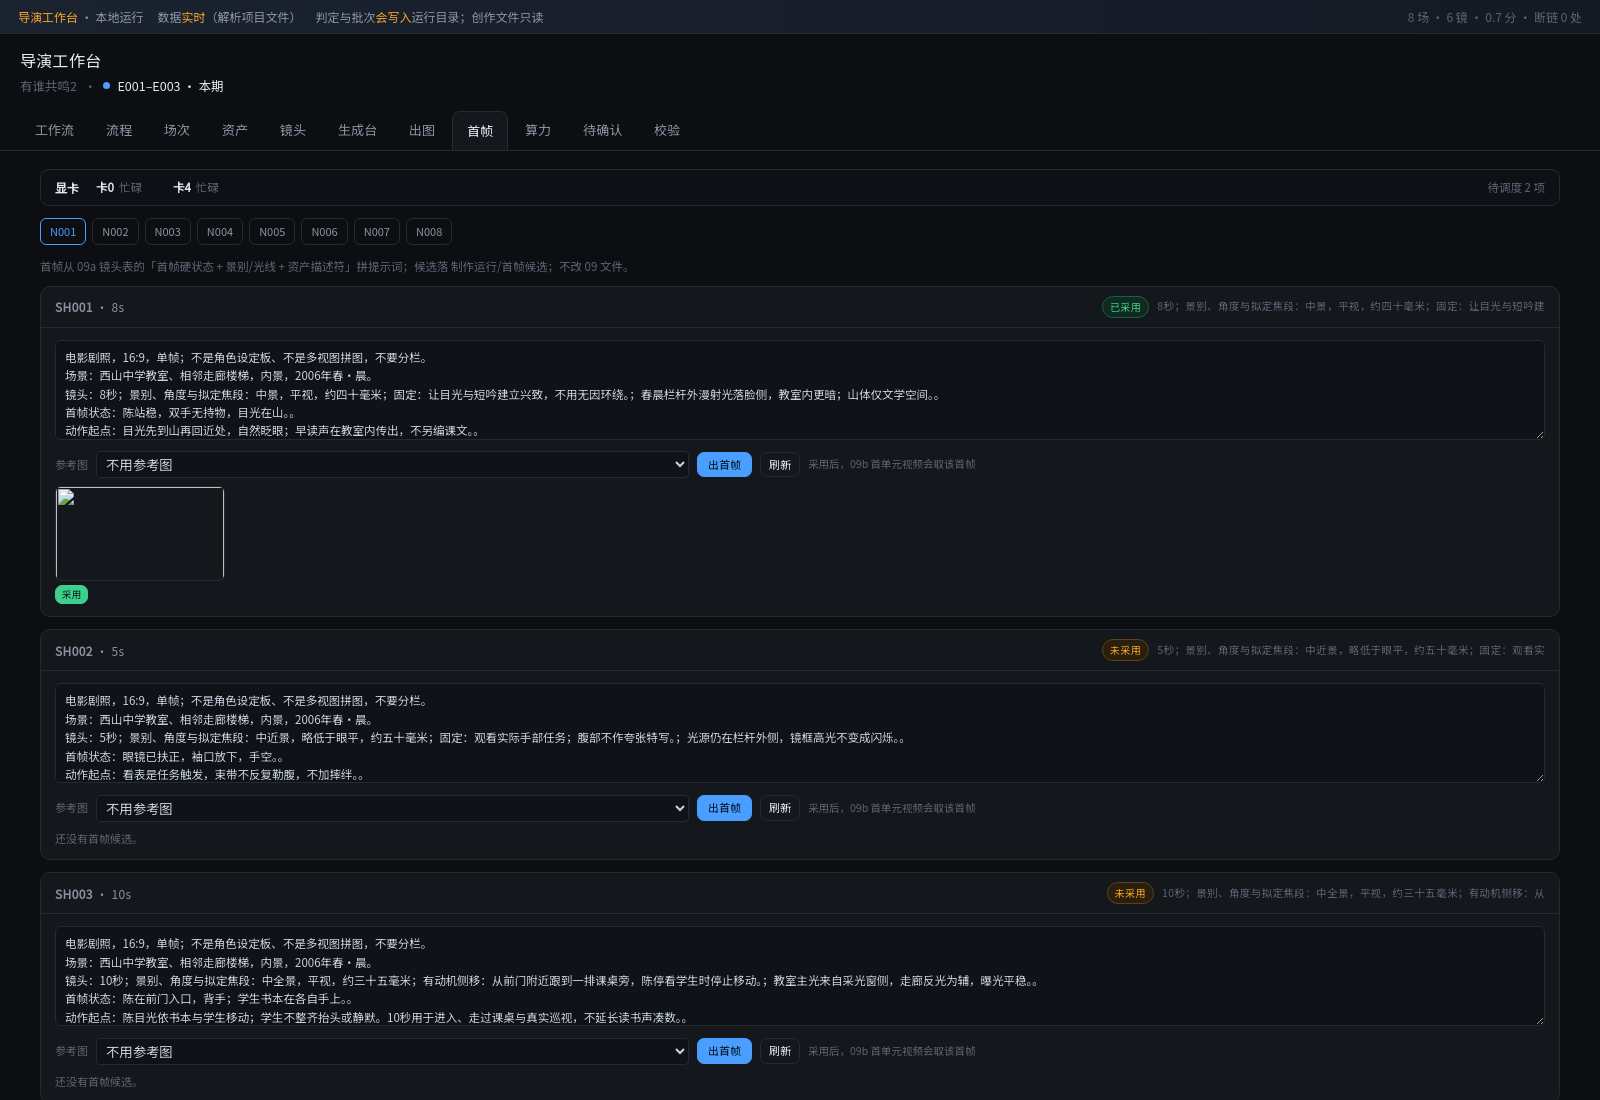
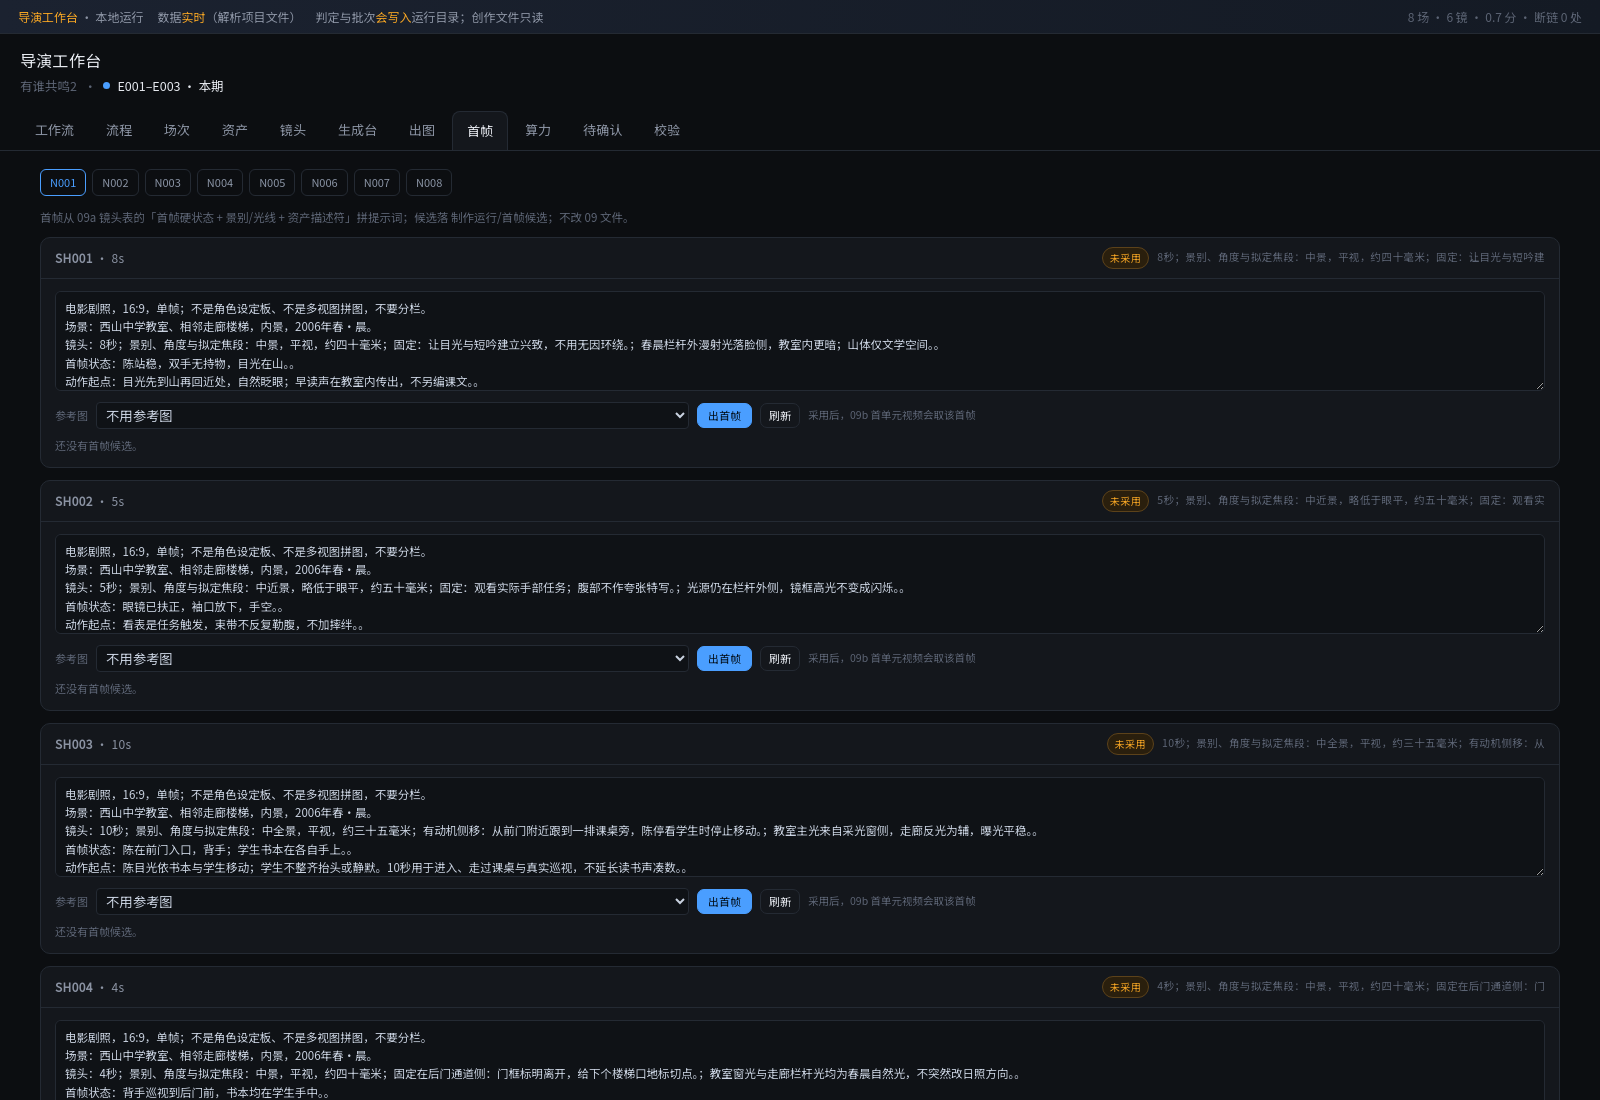
M5: 首帧页截图与 09b firstFrame 回归

diff --git a/app/test_firstframe.py b/app/test_firstframe.py
@@ -2,10 +2,15 @@
 # -*- coding: utf-8 -*-
 """首帧：从镜头表/资产描述符拼提示词；候选采用；09b 取首帧。"""
 import json
+import os
 import tempfile
 from pathlib import Path
+from unittest import mock
+
+os.environ.setdefault("SHOTCALL_VJOBS_FILE", str(Path(tempfile.mkdtemp()) / "vjobs.json"))
 
 import firstframe
+import vjobs
 
 REAL = Path('/users/huxian/short_v/有谁共鸣2')
 PASS, FAIL = [], []
@@ -33,6 +38,18 @@ def main():
     check("采用记录", rec.get("shot") == "SH001" and rec.get("sha256"), rec)
     check("按单元取首帧", firstframe.first_for_unit(p, "N001", "SH001、SH002") == rec['file'],
           firstframe.first_for_unit(p, "N001", "SH001、SH002"))
+
+    # 09b 提交时把已采用首帧写进任务
+    vjobs.JOBS_FILE = p / "vjobs.json"
+    with vjobs._lock:
+        vjobs._jobs.clear(); vjobs._order.clear()
+    unit = {"id": "U001-A", "shots": "SH001", "seconds": 6, "prompt": "p",
+            "refs": [], "source": "x.md"}
+    with mock.patch.object(vjobs.sched, "submit") as sub:
+        out = vjobs.submit(p, "N001", [{"unit": unit, "count": 1}], seed=1, steps=6)
+    j = vjobs._jobs[out["jobs"][0]]
+    check("09b 任务带 firstFrame", j.get("firstFrame") == rec["file"], j.get("firstFrame"))
+    check("视频任务入调度", sub.called)
 
     print(f"\n通过 {len(PASS)} · 失败 {len(FAIL)}")
     return 0 if not FAIL else 1

diff --git a/docs/工作流与提示词-v1.md b/docs/工作流与提示词-v1.md
@@ -8,7 +8,7 @@
 
 ## 0 总原则
 
-> 2026-11-24 15:45：流程页上线；16:00：出图/改图上线（T2I 与 Edit 各实测 1 张）；16:20：首帧页上线。测试 `test_flow.py` 9/0、`test_image.py` 12/0、`test_firstframe.py` 6/0，`test_all` 44/0/2。
+> 2026-11-24 15:45：流程页上线；16:00：出图/改图上线（T2I 与 Edit 各实测 1 张）；16:20：首帧页上线。测试 `test_flow.py` 9/0、`test_image.py` 12/0、`test_firstframe.py` 8/0，`test_all` 44/0/2。
 
 
 1. 一次只执行一个阶段；Agent 不自动跨阶段。
